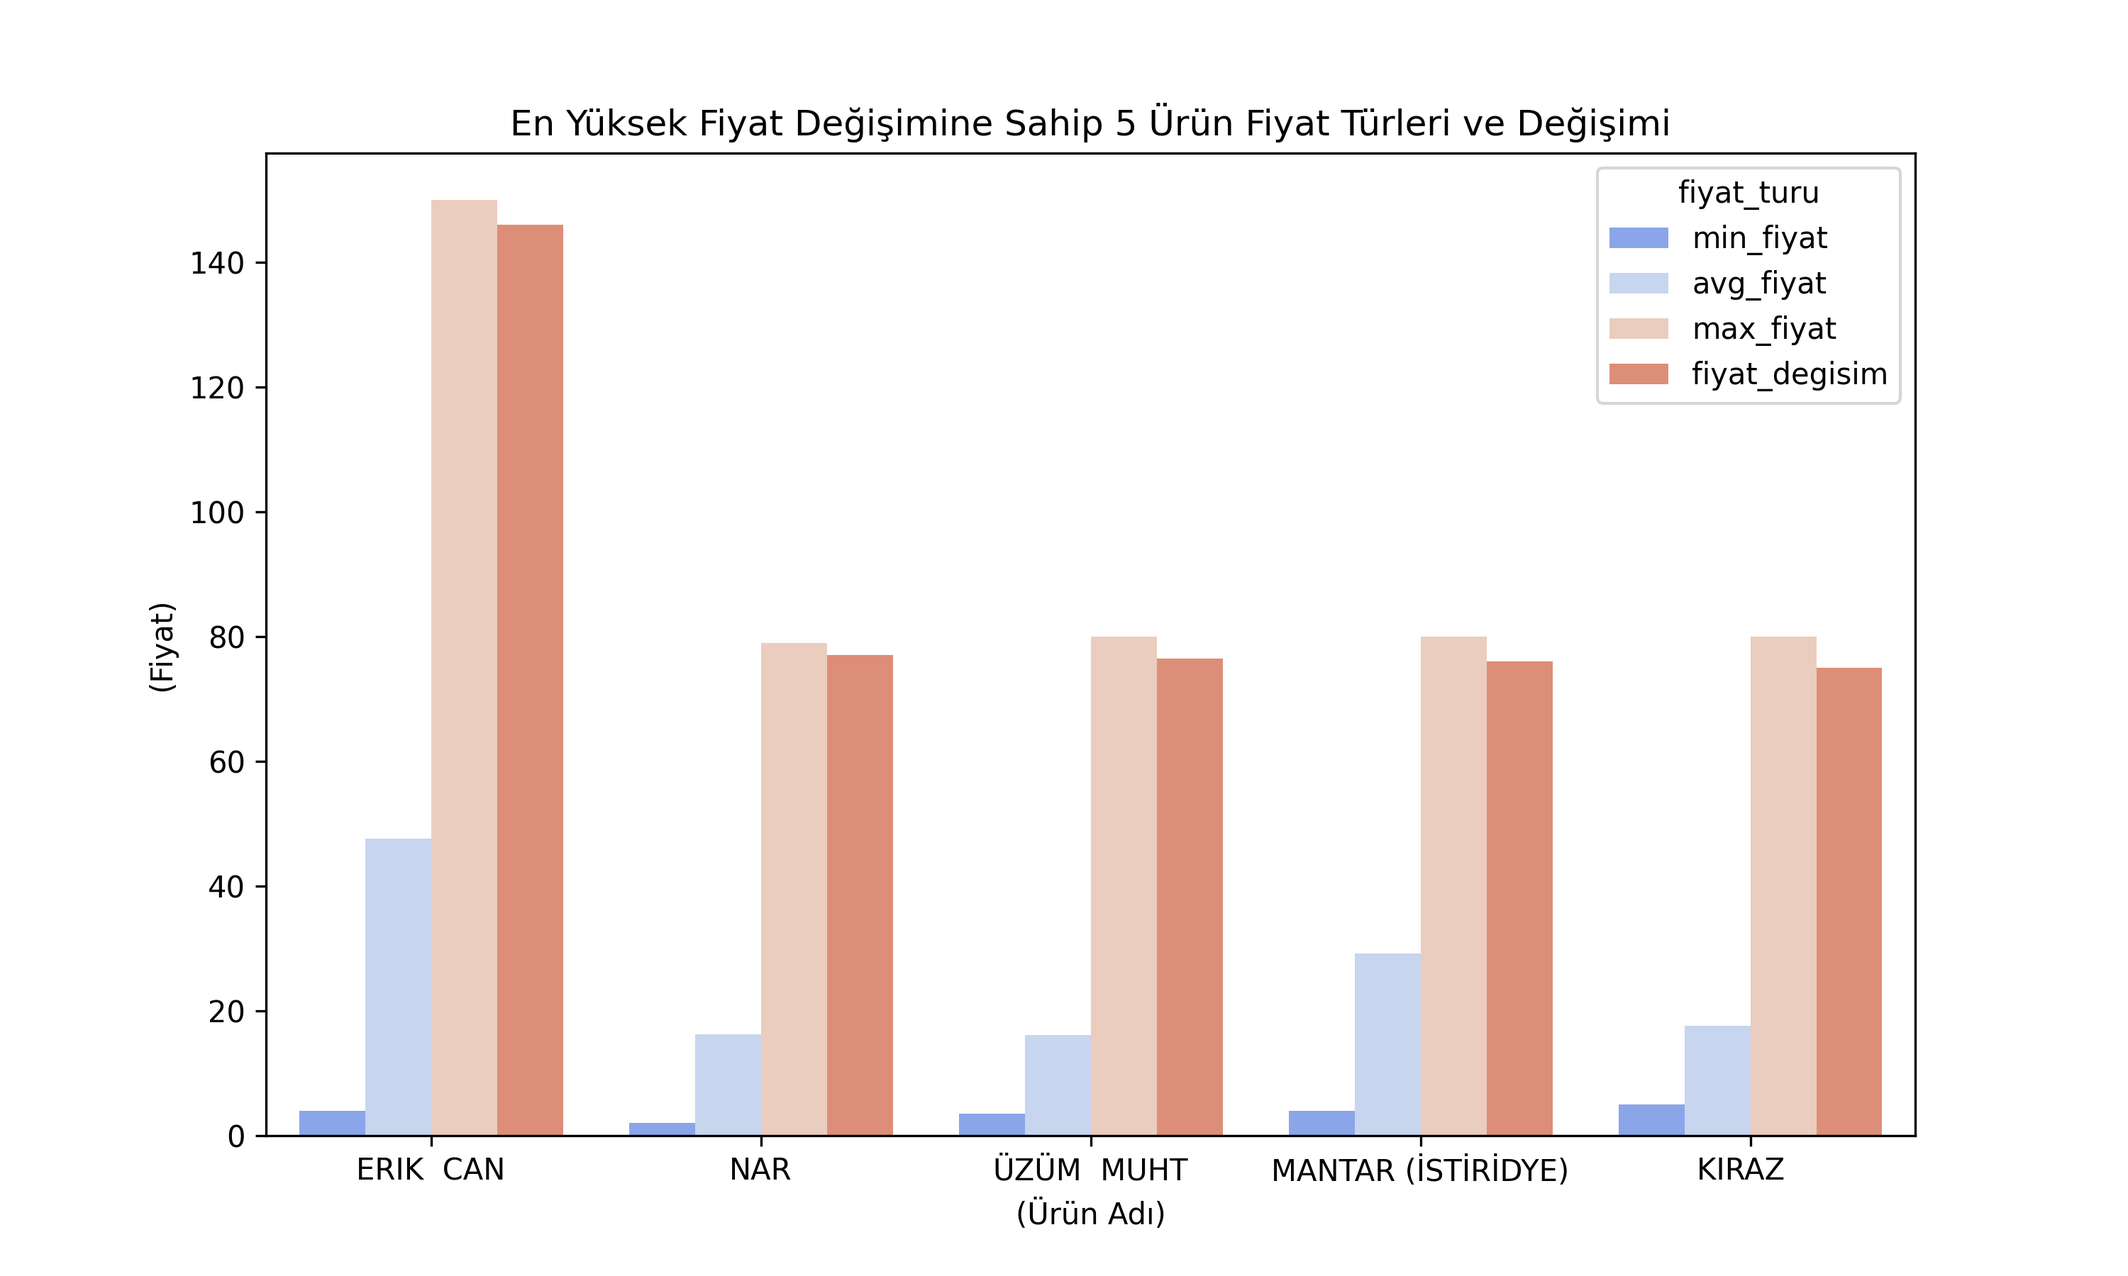
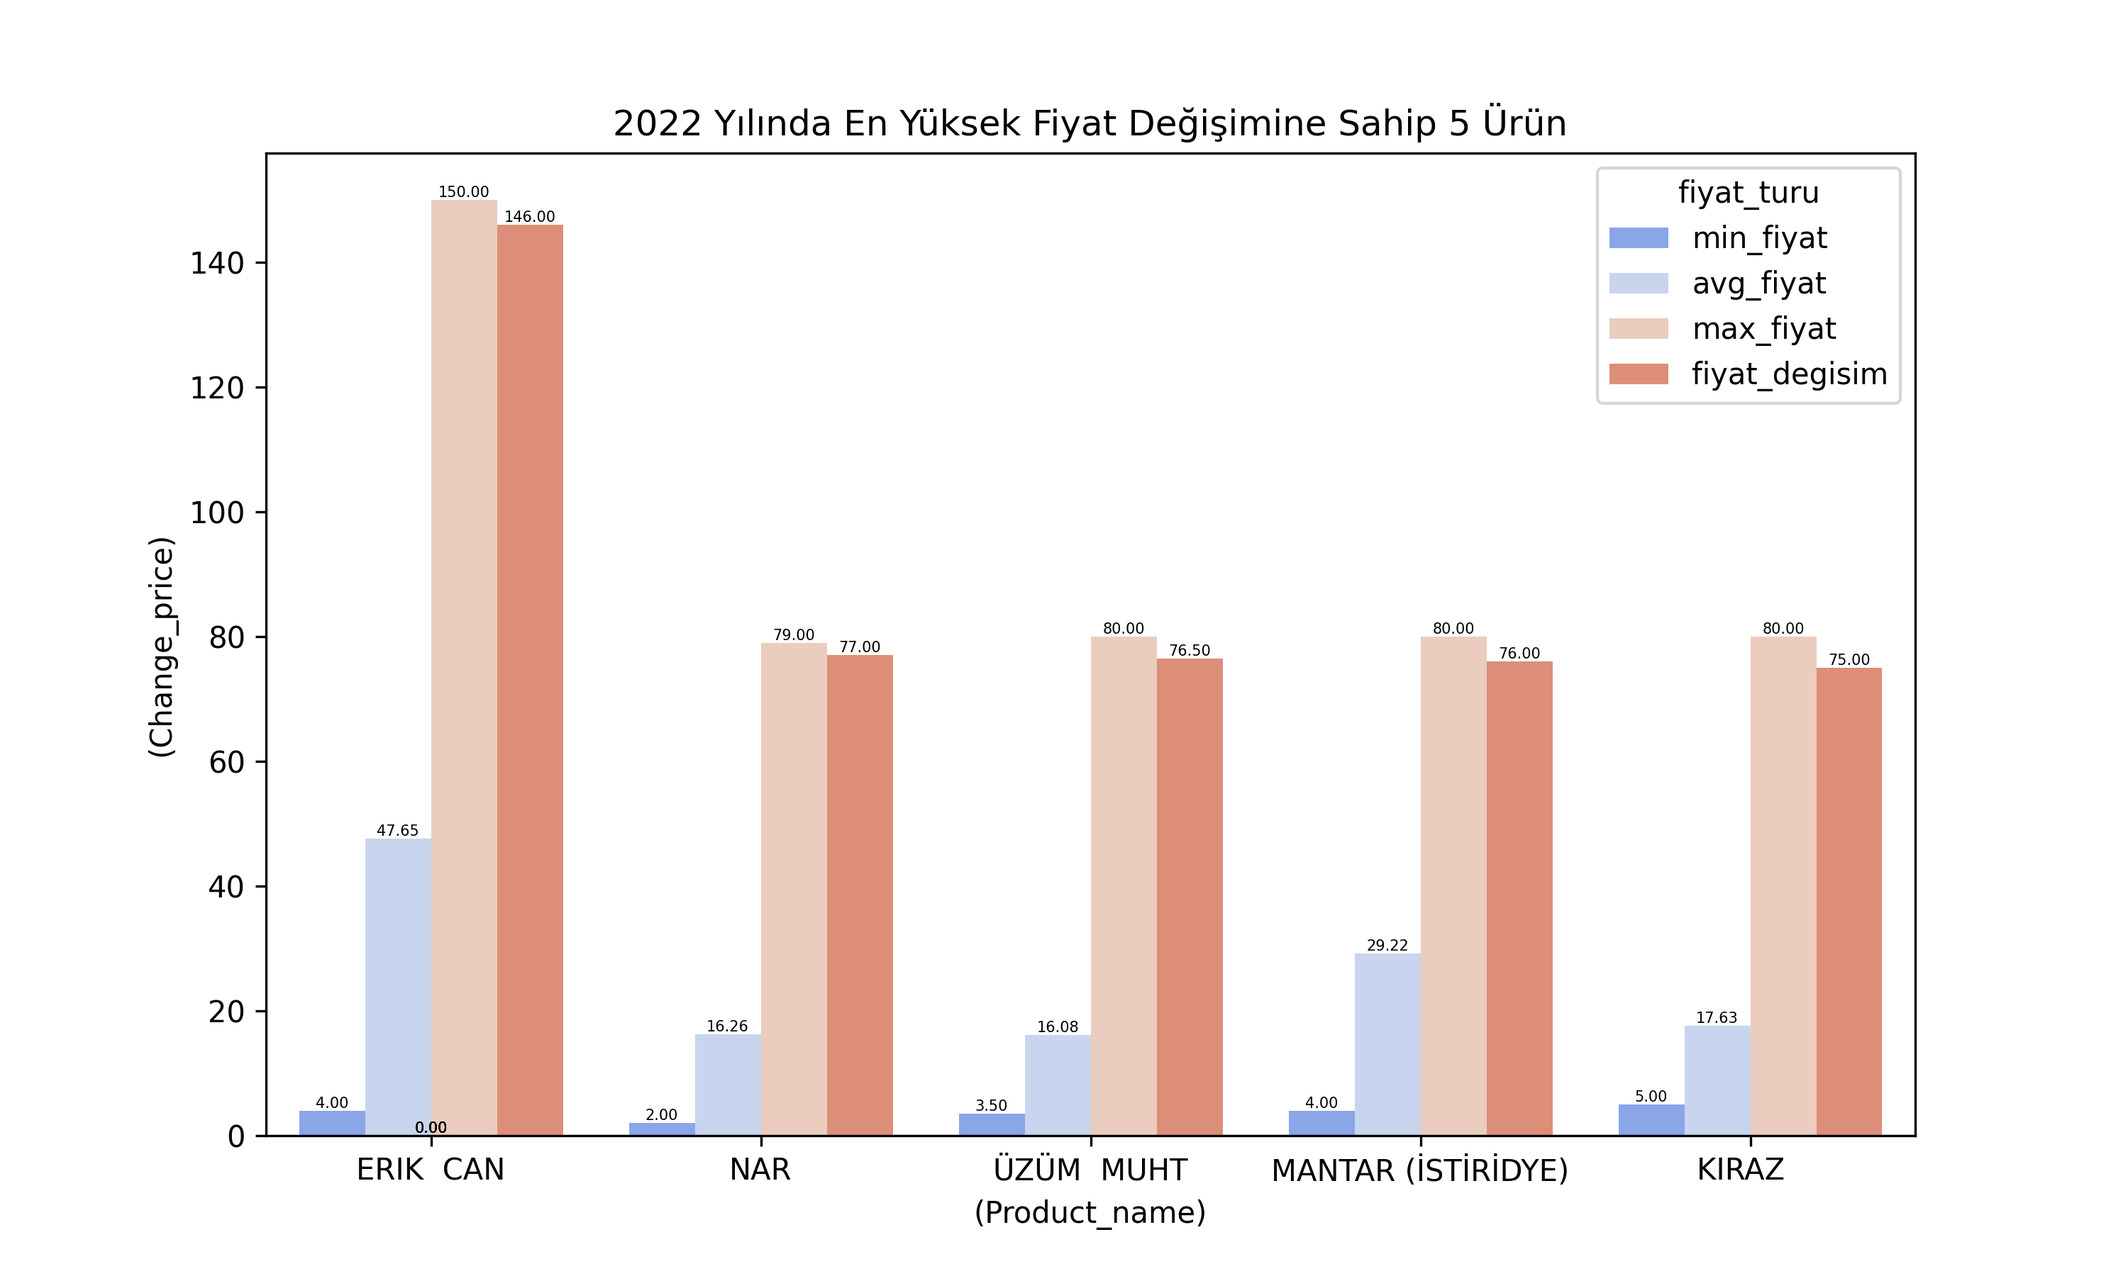
alpson2-5

Changed region(s): [[0.248, 0.0622, 0.775, 0.1244], [0.062, 0.4356, 0.093, 0.5911], [0.465, 0.9333, 0.558, 0.9644]]

diff --git a/scripts/2022_yılında_en_az_fiyat_değişimine_sahip_ilk_5_ürün_grafik.py b/scripts/2022_yılında_en_az_fiyat_değişimine_sahip_ilk_5_ürün_grafik.py
@@ -5,8 +5,8 @@ import pymysqldbconnet  # Doğru modül
 # Veritabanı bağlantısı
 connection = pymysqldbconnet.get_db_connection()
 
-# 2023 yılına ait SQL sorgusunu okuma
-with open('queries/2023 yılında en yüksek fiyat değişimine sahip ilk 5 ürün.sql', 'r') as file:
+# 2022 yılına ait SQL sorgusunu okuma
+with open('queries/2022 yılında en az fiyat değişimine sahip ilk 5 ürün.sql', 'r') as file:
     sql_query = file.read()
 
 # Veritabanından veri çekme
@@ -27,17 +27,19 @@ bars_max_fiyat = plt.bar([p + bar_width for p in index], df['max_fiyat'], bar_wi
 bars_fiyat_degisimi = plt.bar([p + bar_width * 2 for p in index], df['fiyat_degisimi'], bar_width, label='Fiyat Değişimi', color='teal')
 
 plt.xticks([p + bar_width for p in index], df['name'])
-plt.title('2023 Yılında En Yüksek Fiyat Değişimine Sahip İlk 5 Ürün', fontsize=16)
-plt.xlabel('Ürün Adı', fontsize=12)
-plt.ylabel('Fiyat (TL)', fontsize=12)
+plt.title('2022 Yılında En az Fiyat Değişimine Sahip İlk 5 Ürün', fontsize=16)
+plt.xlabel('(Product_name)', fontsize=12)
+plt.ylabel('(Change_price)', fontsize=12)
 plt.yticks(range(0, int(df[['min_fiyat', 'max_fiyat', 'fiyat_degisimi']].max().max()) + 10, 10))
+
+# Fiyat verilerini görselde göstermek
 for bars in [bars_min_fiyat, bars_max_fiyat, bars_fiyat_degisimi]:
     for bar in bars: 
         plt.text(bar.get_x() + bar.get_width() / 2, bar.get_height() + bar.get_y(), 
                  f'{bar.get_height():.2f}', ha='center', va='bottom', fontsize=5, color='black')
 
 # Grafik çıktısını outputs klasörüne kaydetme
-plt.savefig('outputs/2023 yılında en yüksek fiyat değişimine sahip ilk 5 ürün.png')
+plt.savefig('outputs/2022 yılında en az fiyat değişimine sahip ilk 5 ürün.png')
 
 plt.legend()
 plt.show()

diff --git a/scripts/2023_yılında_en_az_fiyat_değişimine_sahip_ilk_5_ürün_grafik.py b/scripts/2023_yılında_en_az_fiyat_değişimine_sahip_ilk_5_ürün_grafik.py
@@ -5,8 +5,8 @@ import pymysqldbconnet  # Doğru modül
 # Veritabanı bağlantısı
 connection = pymysqldbconnet.get_db_connection()
 
-# 2022 yılına ait SQL sorgusunu okuma
-with open('queries/2022 yılında en yüksek fiyat değişimine sahip ilk 5 ürün.sql', 'r') as file:
+# 2023 yılına ait SQL sorgusunu okuma
+with open('queries/2023 yılında en az fiyat değişimine sahip ilk 5 ürün.sql', 'r') as file:
     sql_query = file.read()
 
 # Veritabanından veri çekme
@@ -27,19 +27,17 @@ bars_max_fiyat = plt.bar([p + bar_width for p in index], df['max_fiyat'], bar_wi
 bars_fiyat_degisimi = plt.bar([p + bar_width * 2 for p in index], df['fiyat_degisimi'], bar_width, label='Fiyat Değişimi', color='teal')
 
 plt.xticks([p + bar_width for p in index], df['name'])
-plt.title('2022 Yılında En Yüksek Fiyat Değişimine Sahip İlk 5 Ürün', fontsize=16)
-plt.xlabel('Ürün Adı', fontsize=12)
-plt.ylabel('Fiyat (TL)', fontsize=12)
+plt.title('2023 Yılında En az Fiyat Değişimine Sahip İlk 5 Ürün', fontsize=16)
+plt.xlabel('(Product_name)', fontsize=12)
+plt.ylabel('(Change_price)', fontsize=12)
 plt.yticks(range(0, int(df[['min_fiyat', 'max_fiyat', 'fiyat_degisimi']].max().max()) + 10, 10))
-
-# Fiyat verilerini görselde göstermek
 for bars in [bars_min_fiyat, bars_max_fiyat, bars_fiyat_degisimi]:
     for bar in bars: 
         plt.text(bar.get_x() + bar.get_width() / 2, bar.get_height() + bar.get_y(), 
                  f'{bar.get_height():.2f}', ha='center', va='bottom', fontsize=5, color='black')
 
 # Grafik çıktısını outputs klasörüne kaydetme
-plt.savefig('outputs/2022 yılında en yüksek fiyat değişimine sahip ilk 5 ürün.png')
+plt.savefig('outputs/2023 yılında en az fiyat değişimine sahip ilk 5 ürün.png')
 
 plt.legend()
 plt.show()

diff --git a/scripts/2024 Yılı  İlkbahar Mevsimi için fiyat değişimi en yüksek olan ilk 5 ürün.py b/scripts/2024 Yılı  İlkbahar Mevsimi için fiyat değişimi en yüksek olan ilk 5 ürün.py
@@ -1,0 +1,43 @@
+import pandas as pd
+import matplotlib.pyplot as plt
+import seaborn as sns
+import pymysqldbconnet
+
+# Veritabanı bağlantısını sağlama ve sql sorgusunu okuma 
+connection = pymysqldbconnet.get_db_connection()
+with open('queries/2024 Yılı  İlkbahar Mevsimi için fiyat değişimi en yüksek olan ilk 5 ürün.sql', 'r') as file:
+    sql_query = file.read()
+
+# Veritabanından veri çekme
+df = pd.read_sql(sql_query, connection)
+connection.close()
+
+# Seaborn renk paleti
+colors = sns.color_palette("colorblind", len(df['name'].unique()))
+
+# Grafik Çizimi
+plt.figure(figsize=(12, 6))
+bars = plt.bar(df['name'], df['price_change'], color=colors, alpha=0.6)
+
+# Çubuklar üzerine metin ekleme
+for bar, (_, row) in zip(bars, df.iterrows()):
+    plt.text(bar.get_x() + bar.get_width() / 2, bar.get_height() / 2, 
+             f'Max: {row["max_price"]}\nMin: {row["min_price"]}', ha='center', va='center', fontsize=7, color='black')
+    plt.text(bar.get_x() + bar.get_width() / 2, bar.get_height() + 2, 
+             f'{row["price_change"]}', ha='center', va='bottom', fontsize=8, color='black')
+
+# Grafik Özellikleri
+plt.title("2024 Yılı İlkbahar Mevsimi için fiyat değişimi en yüksek ilk 5 ürün", fontsize=14)
+plt.xlabel('(Product_Name)', fontsize=12)
+plt.ylabel('(Price_Change) ', fontsize=12)
+plt.grid(True, linestyle='--', alpha=0.3)
+plt.ylim(0, df['price_change'].max() + 10)
+plt.yticks(range(0, int(df['price_change'].max() + 200), 100))
+plt.tight_layout()
+plt.tight_layout(pad=3)
+
+plt.savefig('outputs/2024 Yılı İlkbahar Mevsimi için fiyat değişimi en yüksek ilk 5 ürün.png')
+
+
+# Grafiği Göster
+plt.show()

diff --git a/scripts/2024_yılında_en_az_fiyat_değişimine_sahip_ilk_5_ürün_grafik.py b/scripts/2024_yılında_en_az_fiyat_değişimine_sahip_ilk_5_ürün_grafik.py
@@ -6,7 +6,7 @@ import pymysqldbconnet  # Doğru modül
 connection = pymysqldbconnet.get_db_connection()
 
 # 2024 yılına ait SQL sorgusunu okuma
-with open('queries/2024 yılında en yüksek fiyat değişimine sahip ilk 5 ürün.sql', 'r') as file:
+with open('queries/2024 yılında en az fiyat değişimine sahip ilk 5 ürün.sql', 'r') as file:
     sql_query = file.read()
 
 # Veritabanından veri çekme
@@ -27,9 +27,9 @@ bars_max_fiyat = plt.bar([p + bar_width for p in index], df['max_fiyat'], bar_wi
 bars_fiyat_degisimi = plt.bar([p + bar_width * 2 for p in index], df['fiyat_degisimi'], bar_width, label='Fiyat Değişimi', color='teal')
 
 plt.xticks([p + bar_width for p in index], df['name'])
-plt.title('2024 Yılında En Yüksek Fiyat Değişimine Sahip İlk 5 Ürün', fontsize=16)
-plt.xlabel('Ürün Adı', fontsize=12)
-plt.ylabel('Fiyat (TL)', fontsize=12)
+plt.title('2024 Yılında En Az Fiyat Değişimine Sahip İlk 5 Ürün', fontsize=16)
+plt.xlabel('(Product_name)', fontsize=12)
+plt.ylabel('(Change-price)', fontsize=12)
 plt.yticks(range(0, int(df[['min_fiyat', 'max_fiyat', 'fiyat_degisimi']].max().max()) + 10, 25))
 for bars in [bars_min_fiyat, bars_max_fiyat, bars_fiyat_degisimi]:
     for bar in bars: 
@@ -37,7 +37,7 @@ for bars in [bars_min_fiyat, bars_max_fiyat, bars_fiyat_degisimi]:
                  f'{bar.get_height():.2f}', ha='center', va='bottom', fontsize=5, color='black')
 
 # Grafik çıktısını outputs klasörüne kaydetme
-plt.savefig('outputs/2024 yılında en yüksek fiyat değişimine sahip ilk 5 ürün.png')
+plt.savefig('outputs/2024 yılında en az fiyat değişimine sahip ilk 5 ürün.png')
 
 plt.legend()
 plt.show()

diff --git a/scripts/2024 Yılı  Sonbahar Mevsimi için fiyat değişimi en yüksek olan ilk 5 ürün.py b/scripts/2024 Yılı  Sonbahar Mevsimi için fiyat değişimi en yüksek olan ilk 5 ürün.py
@@ -1,0 +1,41 @@
+import pandas as pd
+import matplotlib.pyplot as plt
+import seaborn as sns
+import pymysqldbconnet
+
+# Veritabanı bağlantısını sağlama ve sql sorgusunu okuma 
+connection = pymysqldbconnet.get_db_connection()
+with open('queries/2024 Yılı  Sonbahar Mevsimi için fiyat değişimi en yüksek olan ilk 5 ürün.sql', 'r') as file:
+    sql_query = file.read()
+
+# Veritabanından veri çekme
+df = pd.read_sql(sql_query, connection)
+connection.close()
+
+# Seaborn renk paleti
+colors = sns.color_palette("cubehelix", len(df['name'].unique()))
+
+# Grafik Çizimi
+plt.figure(figsize=(12, 6))
+bars = plt.bar(df['name'], df['price_change'], color=colors, alpha=0.6)
+
+# Çubuklar üzerine metin ekleme
+for bar, (_, row) in zip(bars, df.iterrows()):
+    plt.text(bar.get_x() + bar.get_width() / 2, bar.get_height() / 2, 
+             f'Max: {row["max_price"]}\nMin: {row["min_price"]}', ha='center', va='center', fontsize=7, color='black')
+    plt.text(bar.get_x() + bar.get_width() / 2, bar.get_height() + 2, 
+             f'{row["price_change"]}', ha='center', va='bottom', fontsize=8, color='black')
+
+# Grafik Özellikleri
+plt.title("2024 Yılı Sonbahar Mevsimi için fiyat değişimi en yüksek olan ilk 5 ürün", fontsize=14)
+plt.xlabel('(Product_Name)', fontsize=12)
+plt.ylabel('(Price_Change) ', fontsize=12)
+plt.grid(True, linestyle='--', alpha=0.3)
+plt.ylim(0, df['price_change'].max() + 10)
+plt.yticks(range(0, int(df['price_change'].max() + 25), 25))
+plt.tight_layout()
+plt.tight_layout(pad=3)
+plt.savefig('outputs/2024 Yılı Sonbahar Mevsimi için fiyat değişimi en yüksek ilk 5 ürün.png')
+
+# Grafiği Göster
+plt.show()

diff --git a/scripts/2024 Yılı  Kış Mevsimi için fiyat değişimi en yüksek olan ilk 5 ürün.py b/scripts/2024 Yılı  Kış Mevsimi için fiyat değişimi en yüksek olan ilk 5 ürün.py
@@ -1,0 +1,42 @@
+import pandas as pd
+import matplotlib.pyplot as plt
+import seaborn as sns
+import pymysqldbconnet
+
+# Veritabanı bağlantısını sağlama ve sql sorgusunu okuma 
+connection = pymysqldbconnet.get_db_connection()
+with open('queries/2024 Yılı  Kış Mevsimi için fiyat değişimi en yüksek olan ilk 5 ürün.sql', 'r') as file:
+    sql_query = file.read()
+
+# Veritabanından veri çekme
+df = pd.read_sql(sql_query, connection)
+connection.close()
+
+# Seaborn renk paleti
+colors = sns.color_palette("Set2", len(df['name'].unique()))
+
+# Grafik Çizimi
+plt.figure(figsize=(12, 6))
+bars = plt.bar(df['name'], df['price_change'], color=colors, alpha=0.6)
+
+# Çubuklar üzerine metin ekleme
+for bar, (_, row) in zip(bars, df.iterrows()):
+    plt.text(bar.get_x() + bar.get_width() / 2, bar.get_height() / 2, 
+             f'Max: {row["max_price"]}\nMin: {row["min_price"]}', ha='center', va='center', fontsize=7, color='black')
+    plt.text(bar.get_x() + bar.get_width() / 2, bar.get_height() + 2, 
+             f'{row["price_change"]}', ha='center', va='bottom', fontsize=8, color='black')
+
+# Grafik Özellikleri
+plt.title("2024 Yılı Kış Mevsimi için fiyat değişimi en yüksek olan ilk 5 ürün", fontsize=14)
+plt.xlabel('(Product_Name)', fontsize=12)
+plt.ylabel('(Price_Change) ', fontsize=12)
+plt.grid(True, linestyle='--', alpha=0.3)
+plt.ylim(0, df['price_change'].max() + 10)
+plt.yticks(range(0, int(df['price_change'].max() + 25), 50))
+plt.tight_layout()
+plt.tight_layout(pad=3)
+plt.savefig('outputs/2024 Yılı Kış Mevsimi için fiyat değişimi en yüksek ilk 5 ürün.png')
+
+
+# Grafiği Göster
+plt.show()

diff --git a/scripts/2024 Yılı  Yaz Mevsimi için fiyat değişimi en yüksek olan 5 ürün.py b/scripts/2024 Yılı  Yaz Mevsimi için fiyat değişimi en yüksek olan 5 ürün.py
@@ -1,0 +1,41 @@
+import pandas as pd
+import seaborn as sns
+import matplotlib.pyplot as plt
+import pymysqldbconnet
+
+# Veritabanı bağlantısını sağlama ve sql sorgusunu okuma 
+connection = pymysqldbconnet.get_db_connection()
+with open('queries/2024 Yılı  Yaz Mevsimi için fiyat değişimi en yüksek olan 5 ürün.sql', 'r') as file:
+    sql_query = file.read()
+
+# Veritabanından veri çekme
+df = pd.read_sql(sql_query, connection)
+connection.close()
+
+# Seaborn renk paleti
+colors = sns.color_palette("Set1", len(df['name'].unique()))
+
+# Grafik Çizimi
+plt.figure(figsize=(12, 6))
+bars = plt.bar(df['name'], df['price_change'], color=colors, alpha=0.6)
+
+# Çubuklar üzerine metin ekleme
+for bar, (_, row) in zip(bars, df.iterrows()):
+    plt.text(bar.get_x() + bar.get_width() / 2, bar.get_height() / 2, 
+             f'Max: {row["max_price"]}\nMin: {row["min_price"]}', ha='center', va='center', fontsize=7, color='black')
+    plt.text(bar.get_x() + bar.get_width() / 2, bar.get_height() + 2, 
+             f'{row["price_change"]}', ha='center', va='bottom', fontsize=8, color='black')
+
+# Grafik Özellikleri
+plt.title("2024 Yılı Yaz Mevsimi için fiyat değişimi en yüksek olan 5 ürün", fontsize=14)
+plt.xlabel('(Product_Name)', fontsize=12)
+plt.ylabel('(Price_Change) ', fontsize=12)
+plt.grid(True, linestyle='--', alpha=0.3)
+plt.ylim(0, df['price_change'].max() + 10)
+plt.yticks(range(0, int(df['price_change'].max() + 50), 25))
+plt.tight_layout()
+plt.tight_layout(pad=3)
+plt.savefig('outputs/2024 Yılı Yaz Mevsimi için fiyat değişimi en yüksek ilk 5 ürün.png')
+
+# Grafiği Göster
+plt.show()

diff --git a/scripts/2023 yılında fiyat değişimi en yüksek 5 ürün.py b/scripts/2023 yılında fiyat değişimi en yüksek 5 ürün.py
@@ -10,26 +10,31 @@ connection = pymysqldbconnet.get_db_connection()
 # SQL sorgusunu dosyadan okuma
 with open("queries/2023 yılında fiyat değişimi en yüksek 5 ürün.sql", 'r') as file:
     sql_query = file.read()
+
 # Sorguyu çalıştır ve veriyi pandas DataFrame'e aktar
 df = pd.read_sql(sql_query, connection)
 
 # Bağlantıyı kapat
 connection.close()
 
-# Veriyi "name" sütununa göre yeniden şekillendirelim
+# Grafiği çizelim
 df_melted = pd.melt(df, id_vars=['name'], value_vars=['min_fiyat', 'avg_fiyat', 'max_fiyat', 'fiyat_degisim'],
                     var_name='fiyat_turu', value_name='fiyat')
-
-# Grafiği çizelim
 plt.figure(figsize=(10,6))
 sns.barplot(x='name', y='fiyat', hue='fiyat_turu', data=df_melted, palette='coolwarm')  # coolwarm paleti kullanıldı
 
+# Fiyat verilerini görselde göstermek
+for bars in plt.gca().patches: 
+    plt.text(bars.get_x() + bars.get_width() / 2, bars.get_height() + bars.get_y(), 
+             f'{bars.get_height():.2f}', ha='center', va='bottom', fontsize=5, color='black')
+
 # Grafik başlığı ve etiketler
-plt.title('En Yüksek Fiyat Değişimine Sahip 5 Ürün Fiyat Türleri ve Değişimi')
+plt.title('2023 Yılında En Yüksek Fiyat Değişimine Sahip 5 Ürün ')
 plt.xlabel('(Ürün Adı)')
 plt.ylabel('(Fiyat)')
 
-plt.savefig('outputs/2023 Yılında Fiyat Değişimi En Yüksek 5 Ürün',dpi=300)
+# Görselleştirmeyi kaydetme
+plt.savefig('outputs/2023 Yılında Fiyat Değişimi En Yüksek 5 Ürün.png', dpi=300)
 
 # Grafiği göster
 plt.show()

diff --git a/scripts/2022 yılında fiyat değişimi en yüksek 5 ürün.py b/scripts/2022 yılında fiyat değişimi en yüksek 5 ürün.py
@@ -16,21 +16,23 @@ df = pd.read_sql(sql_query, connection)
 # Bağlantıyı kapat
 connection.close()
 
-# Veriyi "name" sütununa göre yeniden şekillendirelim
+# Grafiği çizelim
 df_melted = pd.melt(df, id_vars=['name'], value_vars=['min_fiyat', 'avg_fiyat', 'max_fiyat', 'fiyat_degisim'],
                     var_name='fiyat_turu', value_name='fiyat')
-
-# Grafiği çizelim
 plt.figure(figsize=(10,6))
 sns.barplot(x='name', y='fiyat', hue='fiyat_turu', data=df_melted, palette='coolwarm')  # coolwarm paleti kullanıldı
 
+# Fiyat verilerini görselde göstermek
+for bars in plt.gca().patches:  
+    plt.text(bars.get_x() + bars.get_width() / 2, bars.get_height() + bars.get_y(), 
+             f'{bars.get_height():.2f}', ha='center', va='bottom', fontsize=5, color='black')
+
 # Grafik başlığı ve etiketler
-plt.title('En Yüksek Fiyat Değişimine Sahip 5 Ürün Fiyat Türleri ve Değişimi')
-plt.xlabel('(Ürün Adı)')
-plt.ylabel('(Fiyat)')
+plt.title('2022 Yılında En Yüksek Fiyat Değişimine Sahip 5 Ürün')
+plt.xlabel('(Product_name)')
+plt.ylabel('(Change_price)')
 
 plt.savefig('outputs/2022 Yılında Fiyat Değişimi En Yüksek 5 Ürün.png',dpi=300)
-
 
 # Grafiği göster
 plt.show()

diff --git a/scripts/2024 yılında fiyat değişimi en yüksek 5 ürün.py b/scripts/2024 yılında fiyat değişimi en yüksek 5 ürün.py
@@ -16,13 +16,18 @@ df = pd.read_sql(sql_query, connection)
 # Bağlantıyı kapat
 connection.close()
 
-# Veriyi "name" sütununa göre yeniden şekillendirelim
+# Grafiği çizelim
 df_melted = pd.melt(df, id_vars=['name'], value_vars=['min_fiyat', 'avg_fiyat', 'max_fiyat', 'fiyat_degisim'],
                     var_name='fiyat_turu', value_name='fiyat')
-
-# Grafiği çizelim
 plt.figure(figsize=(10,6))
 sns.barplot(x='name', y='fiyat', hue='fiyat_turu', data=df_melted, palette='coolwarm')  # coolwarm paleti kullanıldı
+
+# Fiyat verilerini görselde göstermek
+for bars in plt.gca().patches: 
+    plt.text(bars.get_x() + bars.get_width() / 2, bars.get_height() + bars.get_y(), 
+             f'{bars.get_height():.2f}', ha='center', va='bottom', fontsize=5, color='black')
+
+
 
 # Grafik başlığı ve etiketler
 plt.title('En Yüksek Fiyat Değişimine Sahip 5 Ürün Fiyat Türleri ve Değişimi')
